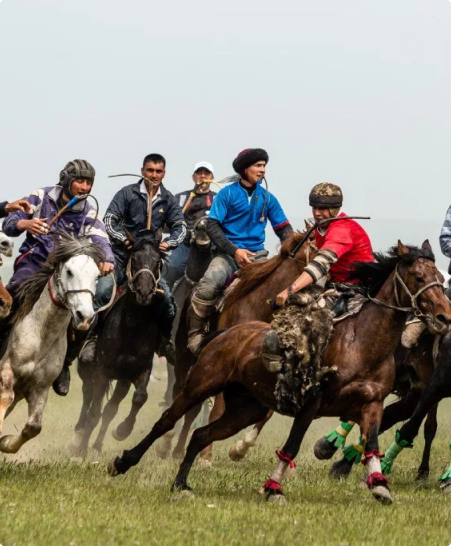
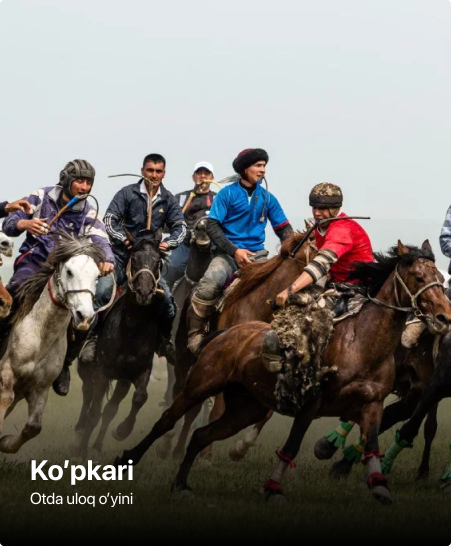
Add game section

Changed region(s): [[0.0, 0.6227, 1.0, 1.0]]

diff --git a/src/components/Main/Main.jsx b/src/components/Main/Main.jsx
@@ -2,6 +2,9 @@ import React from 'react';
 import './Main.css';
 
 import Slider from '../HomeSlider/Slider';
+import gameOne from '../../Assets/Images/game_one.png';
+import gameTwo from '../../Assets/Images/game_two.png';
+import gameThree from '../../Assets/Images/game_three.png';
 
 function Main() {
 	return (
@@ -9,22 +12,61 @@ function Main() {
 			<main className="main">
 				<section className="top-shrine">
 					<div className="container">
-					<div className="main__top--shrines">
-						<h2 className="main-heading">Top Ziyoratgohlar</h2>
-						<p className="main-description">
-							O’zbekistonning shonli tarixi haqida siz bilgan va
-							bilmagan faktlar
-						</p>
-					</div>
+						<div className="main__top--shrines">
+							<h2 className="main-heading">Top Ziyoratgohlar</h2>
+							<p className="main-description">
+								O’zbekistonning shonli tarixi haqida siz bilgan
+								va bilmagan faktlar
+							</p>
+						</div>
 					</div>
 					<Slider />
 				</section>
 				<section className="flok-game">
-					<h2 className="game-heading">Mashxur xalq o’yinlari</h2>
-					<p className="game-description">
-						O’zbekistonning xalq orasida mashxur bo’lgan milliy
-						o’yinlari.
-					</p>
+					<div className="container">
+						<h2 className="game-heading">Mashxur xalq o’yinlari</h2>
+						<p className="game-description">
+							O’zbekistonning xalq orasida mashxur bo’lgan milliy
+							o’yinlari.
+						</p>
+						<div className="game-box">
+							<img
+							className='game-one'
+								src={gameOne}
+								alt="Kupkari game"
+								width={451}
+								height={546}
+							/>
+							<div className="game-info">
+								<div className="game-img-box">
+									<img
+									className='game-two'
+										src={gameTwo}
+										alt="Chillak game"
+										width={320}
+										height={260}
+									/>
+									<img
+										src={gameThree}
+										alt="Tug of war game"
+										width={320}
+										height={260}
+									/>
+								</div>
+								<p className="game-discription">
+									Mamlakatimiz mustaqillikka erishgan
+									dastlabki kunlardan boshlab, milliy
+									qadriyatlarimiz, an'ana-yu udumlarimiz, shu
+									jumladan, xalq o‘yinlarini qayta tiklashga
+									katta e'tibor qaratildi. Sportning an'anaviy
+									turlari bilan birgalikda milliy sport
+									turlari hamda xalq o‘yinlari ham tobora
+									rivojlanib borayotir
+								</p>
+								<button className='game-more-btn'>batafsil</button>
+							</div>
+						</div>
+					</div>
 				</section>
 			</main>
 		</>

diff --git a/src/components/Main/Main.css b/src/components/Main/Main.css
@@ -30,3 +30,66 @@
 	color: #333333;
 	opacity: 0.6;
 }
+.flok-game {
+	padding: 60px 0;
+}
+.game-heading {
+	font-style: normal;
+	font-weight: 900;
+	font-size: 40px;
+	line-height: 48px;
+	margin: 0;
+	margin-bottom: 10px;
+	padding: 0;
+}
+.game-description {
+	margin: 0;
+	margin-bottom: 40px;
+	padding: 0;
+	font-family: 'SF Pro Display';
+	font-style: normal;
+	font-weight: 400;
+	font-size: 18px;
+	line-height: 26px;
+	color: #333333;
+	opacity: 0.6;
+}
+.game-box{
+	display: flex;
+	align-items: flex-start;	
+}
+.game-one {
+	margin-right: 50px;
+}
+.game-two {
+	margin-right: 30px;
+}
+.game-discription {
+	width: 100;
+	max-width: 626px;
+	margin: 30px 0;
+	padding: 0;
+	font-style: normal;
+	font-weight: 400;
+	font-size: 18px;
+	line-height: 28px;
+	color: #333333;
+	opacity: 0.6;
+}
+
+.game-more-btn {
+	width: 100%;
+	max-width: 223px;
+	padding: 16px;
+	font-style: normal;
+	font-weight: 500;
+	font-size: 24px;
+	line-height: 36px;
+	text-align: center;
+	box-sizing: border-box;
+	backdrop-filter: blur(24px);
+	border-radius: 8px;
+	background-color: #fff;
+	border: 2px solid #08a07f;
+	cursor: pointer;
+}

diff --git a/src/components/HomeSlider/Slider.css b/src/components/HomeSlider/Slider.css
@@ -26,7 +26,6 @@
    width: 1340px;
    margin: 0 auto; 
    padding: 15px;
-   padding-bottom: 60px;
    text-align: center;
 }
 .home-image-box {
